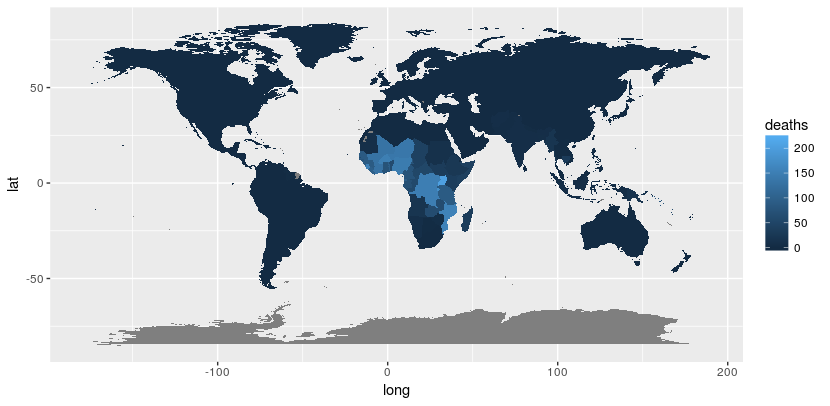
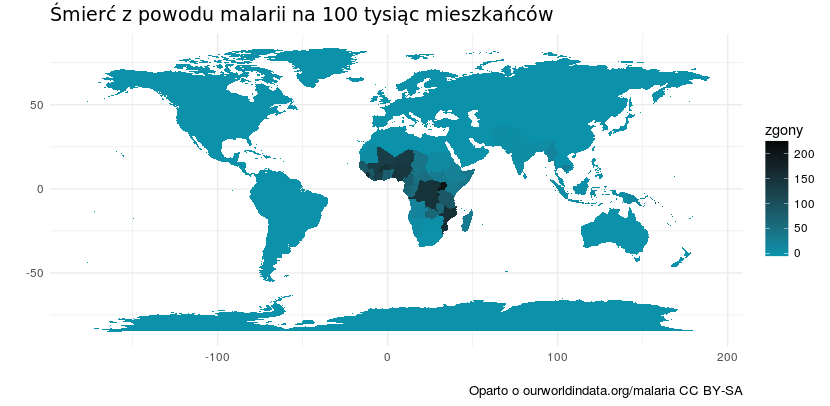
update country plot visualy

diff --git a/README.md b/README.md
@@ -16,3 +16,8 @@ The script is set up to work sourced in Rstudio, & produce the plot on the scree
 # dependencies
 
 Besides imported packages, `magrittr` is required for the script to work correctly.
+
+## fonts
+
+For installing additional fonts, please follow:
+https://cran.r-project.org/web/packages/extrafont/README.html
